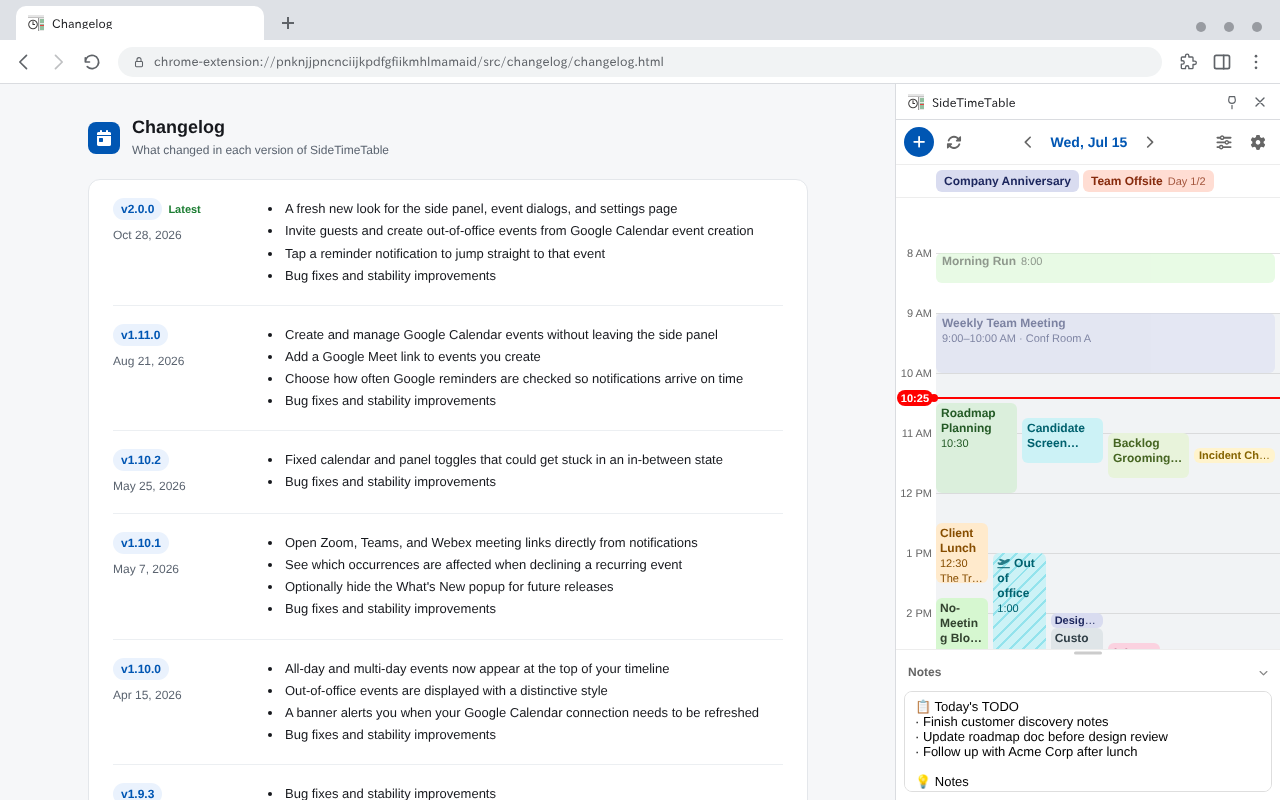
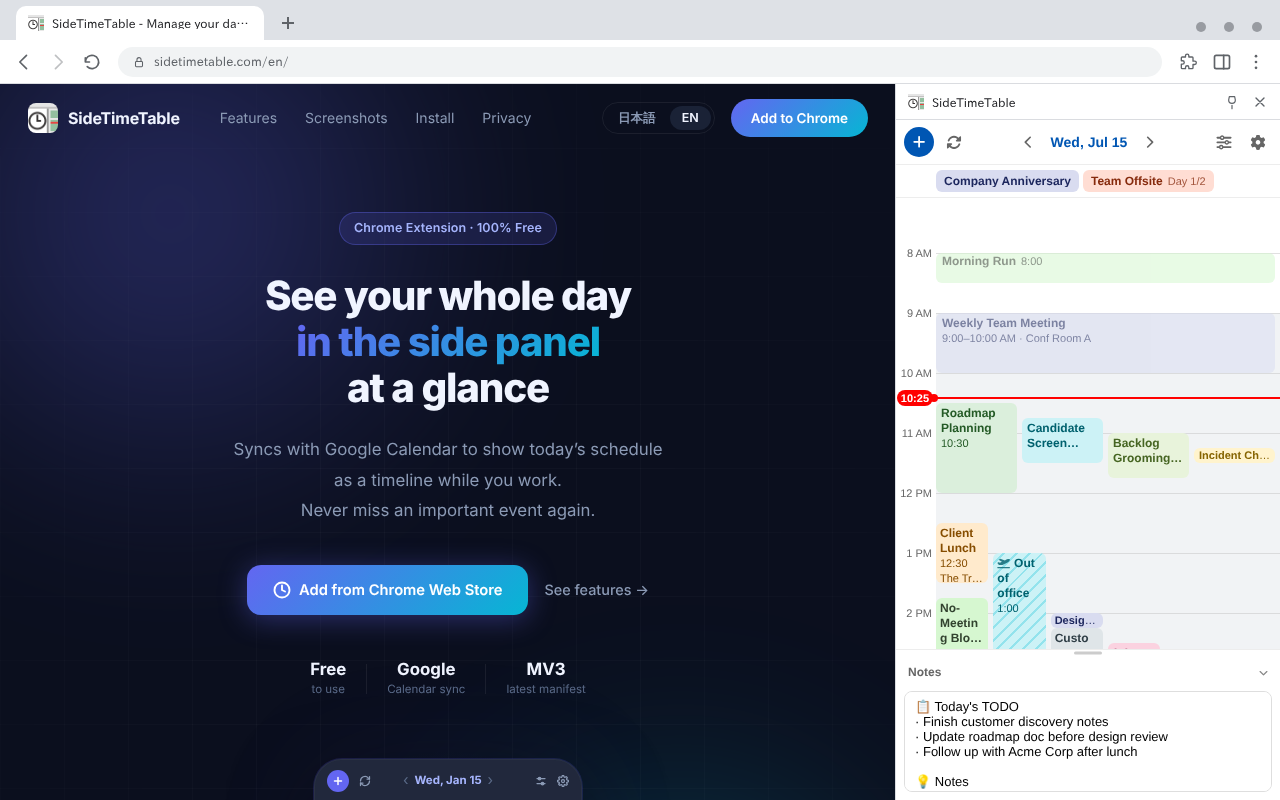
Number the screenshots in Web Store upload order
image_1 timeline, image_2 Google create, image_3 meeting details,
image_4 dark theme, image_5 settings; the English shots now share each
number's backdrop page with the Japanese ones. The announcement card can
pick any of the five, described by their new content.

Claude-Session: https://claude.ai/code/session_01SzrF9JTe1vhCmxkuxd6DeB

diff --git a/scripts/screenshots/compose.js b/scripts/screenshots/compose.js
@@ -38,40 +38,41 @@ const LANDING_EN = { tabTitle: 'SideTimeTable - Manage your day in the side pane
 const CHANGELOG_JA = { tabTitle: '変更履歴', url: `${EXT_URL}/src/changelog/changelog.html` };
 const CHANGELOG_EN = { tabTitle: 'Changelog', url: `${EXT_URL}/src/changelog/changelog.html` };
 
+// Numbered in Web Store upload order
 const SHOTS = {
     ja: [
         { out: 'image_1.png', theme: 'light', ...LANDING_JA, pageImg: 'landing.png', panelImg: 'panel-light.png' },
+        { out: 'image_2.png', theme: 'light', ...CHANGELOG_JA, pageImg: 'changelog.png', panelImg: 'panel-google-modal.png' },
+        { out: 'image_3.png', theme: 'light', ...LANDING_JA, pageImg: 'landing.png', panelImg: 'panel-google-detail.png' },
         {
-            out: 'image_2.png', theme: 'light',
-            tabTitle: 'SideTimeTable の設定',
-            url: `${EXT_URL}/src/options/options.html`,
-            pageImg: 'options-light.png', panelImg: null,
-        },
-        {
-            out: 'image_3.png', theme: 'dark',
+            out: 'image_4.png', theme: 'dark',
             tabTitle: 'SideTimeTable の設定',
             url: `${EXT_URL}/src/options/options.html`,
             pageImg: 'options-dark.png', panelImg: 'panel-dark.png',
         },
-        { out: 'image_4.png', theme: 'light', ...CHANGELOG_JA, pageImg: 'changelog.png', panelImg: 'panel-google-modal.png' },
-        { out: 'image_5.png', theme: 'light', ...LANDING_JA, pageImg: 'landing.png', panelImg: 'panel-google-detail.png' },
+        {
+            out: 'image_5.png', theme: 'light',
+            tabTitle: 'SideTimeTable の設定',
+            url: `${EXT_URL}/src/options/options.html`,
+            pageImg: 'options-light.png', panelImg: null,
+        },
     ],
     en: [
-        { out: 'image_1_en.png', theme: 'light', ...CHANGELOG_EN, pageImg: 'changelog-en.png', panelImg: 'panel-light-en.png' },
+        { out: 'image_1_en.png', theme: 'light', ...LANDING_EN, pageImg: 'landing-en.png', panelImg: 'panel-light-en.png' },
+        { out: 'image_2_en.png', theme: 'light', ...CHANGELOG_EN, pageImg: 'changelog-en.png', panelImg: 'panel-google-modal-en.png' },
+        { out: 'image_3_en.png', theme: 'light', ...LANDING_EN, pageImg: 'landing-en.png', panelImg: 'panel-google-detail-en.png' },
         {
-            out: 'image_2_en.png', theme: 'light',
-            tabTitle: 'SideTimeTable settings',
-            url: `${EXT_URL}/src/options/options.html`,
-            pageImg: 'options-light-en.png', panelImg: null,
-        },
-        {
-            out: 'image_3_en.png', theme: 'dark',
+            out: 'image_4_en.png', theme: 'dark',
             tabTitle: 'SideTimeTable settings',
             url: `${EXT_URL}/src/options/options.html`,
             pageImg: 'options-dark-en.png', panelImg: 'panel-dark-en.png',
         },
-        { out: 'image_4_en.png', theme: 'light', ...LANDING_EN, pageImg: 'landing-en.png', panelImg: 'panel-google-modal-en.png' },
-        { out: 'image_5_en.png', theme: 'light', ...CHANGELOG_EN, pageImg: 'changelog-en.png', panelImg: 'panel-google-detail-en.png' },
+        {
+            out: 'image_5_en.png', theme: 'light',
+            tabTitle: 'SideTimeTable settings',
+            url: `${EXT_URL}/src/options/options.html`,
+            pageImg: 'options-light-en.png', panelImg: null,
+        },
     ],
 };
 

diff --git a/scripts/announce-card/render.js b/scripts/announce-card/render.js
@@ -16,7 +16,7 @@
  *   --name <text>          Release name; the version badge is extracted from it
  *   --card-ja <file>       Japanese card source (line 1 headline, then highlights)
  *   --card-en <file>       English card source
- *   --screenshot <base>    image_1 | image_2 | image_3 (default: image_1)
+ *   --screenshot <base>    image_1 .. image_5 (default: image_1)
  *   --out-dir <dir>        Where the PNGs are written (default: cwd)
  *   --lang <ja|en>         Render one language only
  *   --html-only            Write the card HTML instead of PNGs (no Playwright needed)

diff --git a/tests/scripts/announce-card.test.js b/tests/scripts/announce-card.test.js
@@ -69,6 +69,7 @@ describe('resolveScreenshot', () => {
     test('accepts the known screenshot bases', () => {
         expect(resolveScreenshot('image_2')).toBe('image_2');
         expect(resolveScreenshot(' image_3 ')).toBe('image_3');
+        expect(resolveScreenshot('image_5')).toBe('image_5');
     });
 
     test('falls back to the default for anything else', () => {

diff --git a/scripts/announce-card/card-template.js b/scripts/announce-card/card-template.js
@@ -16,7 +16,7 @@ const HEIGHT = 630;
 const MAX_HIGHLIGHTS = 3;
 
 /** Screenshots the card may inset, matched to docs/img/<base>.png (ja) / <base>_en.png (en). */
-const SCREENSHOTS = ['image_1', 'image_2', 'image_3'];
+const SCREENSHOTS = ['image_1', 'image_2', 'image_3', 'image_4', 'image_5'];
 const DEFAULT_SCREENSHOT = 'image_1';
 
 const TEXT = {

diff --git a/scripts/screenshots/README.md b/scripts/screenshots/README.md
@@ -20,13 +20,15 @@ npm run screenshots -- --out <dir>    # 出力先を変更
 
 ## 生成される画像 (1280x800, Chrome Web Store 標準サイズ)
 
+番号は Chrome ウェブストアにアップロードする順。
+
 | ファイル | 内容 |
 |---|---|
-| `image_1.png` / `image_1_en.png` | サイドパネルのタイムライン+メモ(ライト)。背景は ja=ランディングページ / en=変更履歴ページ |
-| `image_2.png` / `image_2_en.png` | 設定ページ: Google連携+カレンダー管理(ライト) |
-| `image_3.png` / `image_3_en.png` | 設定ページ(ダーク)+サイドパネルのタイムライン(ダーク) |
-| `image_4.png` / `image_4_en.png` | Google予定の作成ダイアログ(ゲスト3人)。背景は ja=変更履歴ページ / en=ランディングページ |
-| `image_5.png` / `image_5_en.png` | 会議の詳細(Meet参加ボタン・参加者の出欠・出欠ボタン)。背景は image_1 と同じ |
+| `image_1.png` / `image_1_en.png` | サイドパネルのタイムライン+メモ(ライト)。背景はランディングページ |
+| `image_2.png` / `image_2_en.png` | Google予定の作成ダイアログ(ゲスト3人)。背景は変更履歴ページ |
+| `image_3.png` / `image_3_en.png` | 会議の詳細(Meet参加ボタン・参加者の出欠・出欠ボタン)。背景はランディングページ |
+| `image_4.png` / `image_4_en.png` | 設定ページ(ダーク)+サイドパネルのタイムライン(ダーク) |
+| `image_5.png` / `image_5_en.png` | 設定ページ: Google連携+カレンダー管理(ライト) |
 
 日本語版は `docs/index.html` が参照。英語版はウェブストアの英語リスティング用
 (ダッシュボードから手動アップロード)。

diff --git a/scripts/announce-card/README.md b/scripts/announce-card/README.md
@@ -13,7 +13,7 @@
 
 カードの中身は「アイコン＋製品名＋バージョン」「見出し」「更新の要点（最大3行）」
 「ストア導線の一文」と、更新内容に近い製品スクリーンショット
-（`docs/img/image_{1..3}.png`）。デザインはランディングページ (`docs/style.css`) の
+（`docs/img/image_{1..5}.png`）。デザインはランディングページ (`docs/style.css`) の
 配色に合わせている。
 
 ## 使い方（ローカル）
@@ -42,7 +42,7 @@ npm run announce-card -- --card-ja card_ja.txt --html-only --out-dir .
 ```
 
 主なオプション: `--lang ja|en`（片方だけ生成）、`--scale`（既定 2 = Retina 相当）、
-`--screenshot image_1|image_2|image_3`。
+`--screenshot image_1`〜`image_5`。
 
 ## 文字数の目安
 
